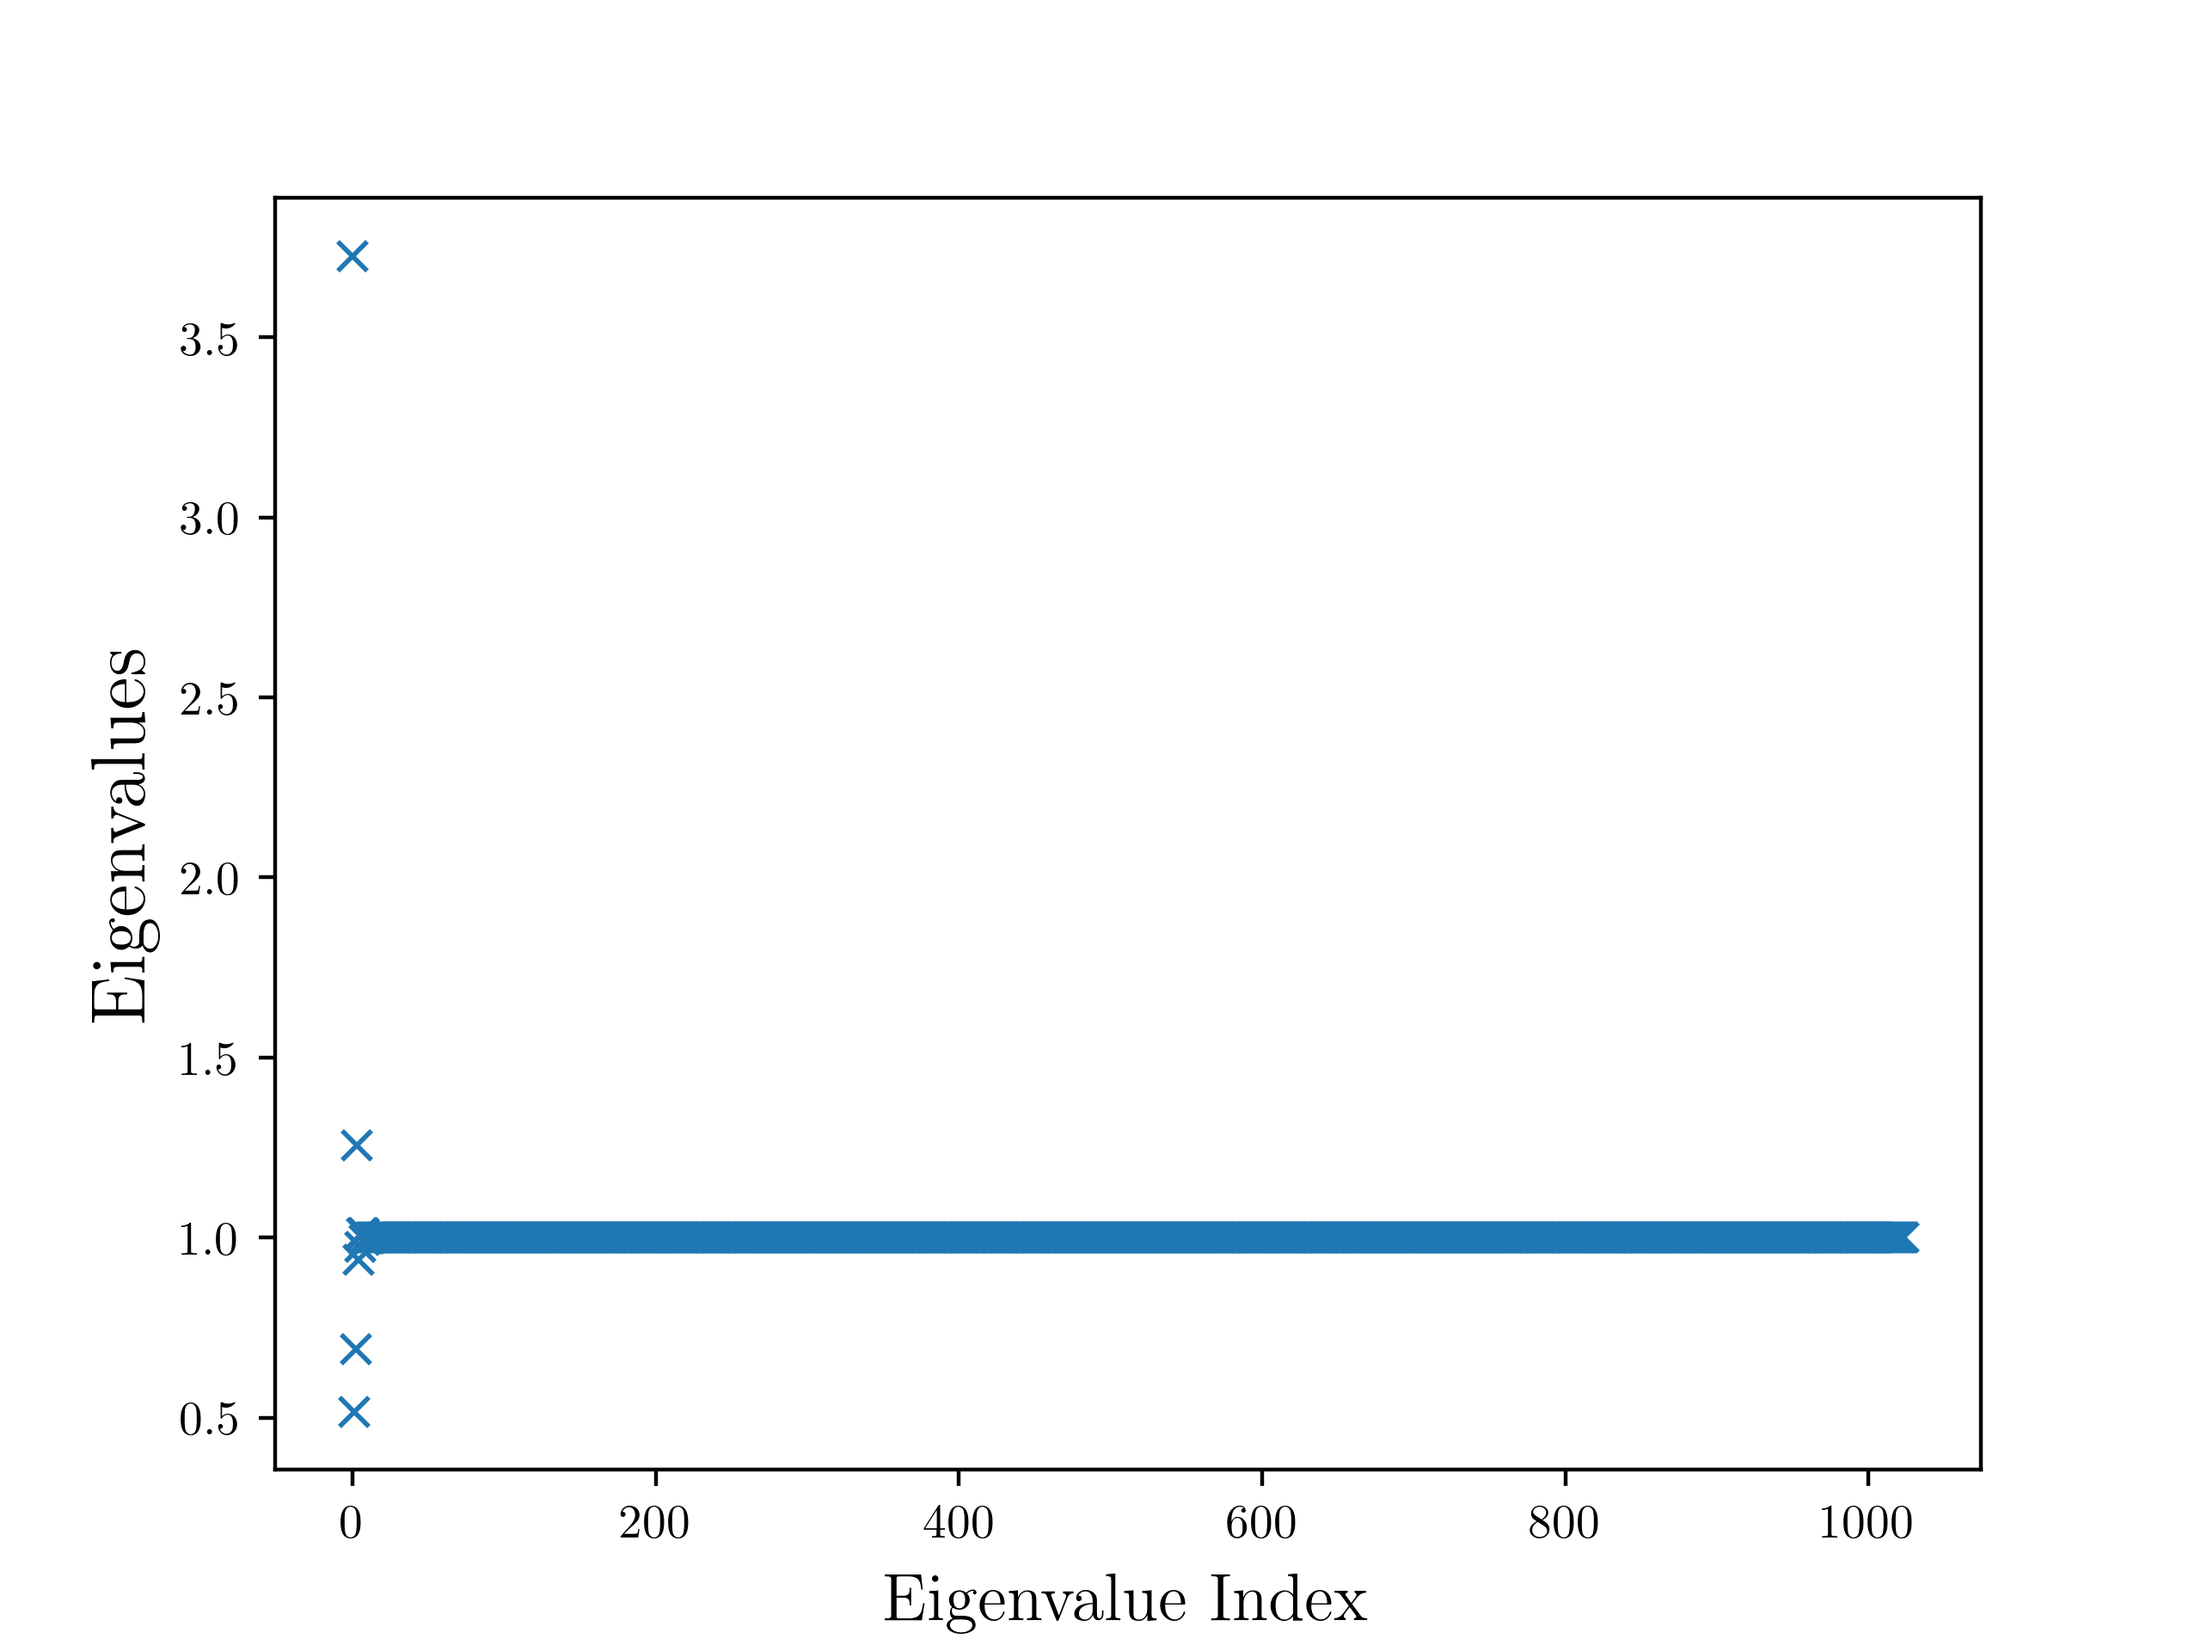
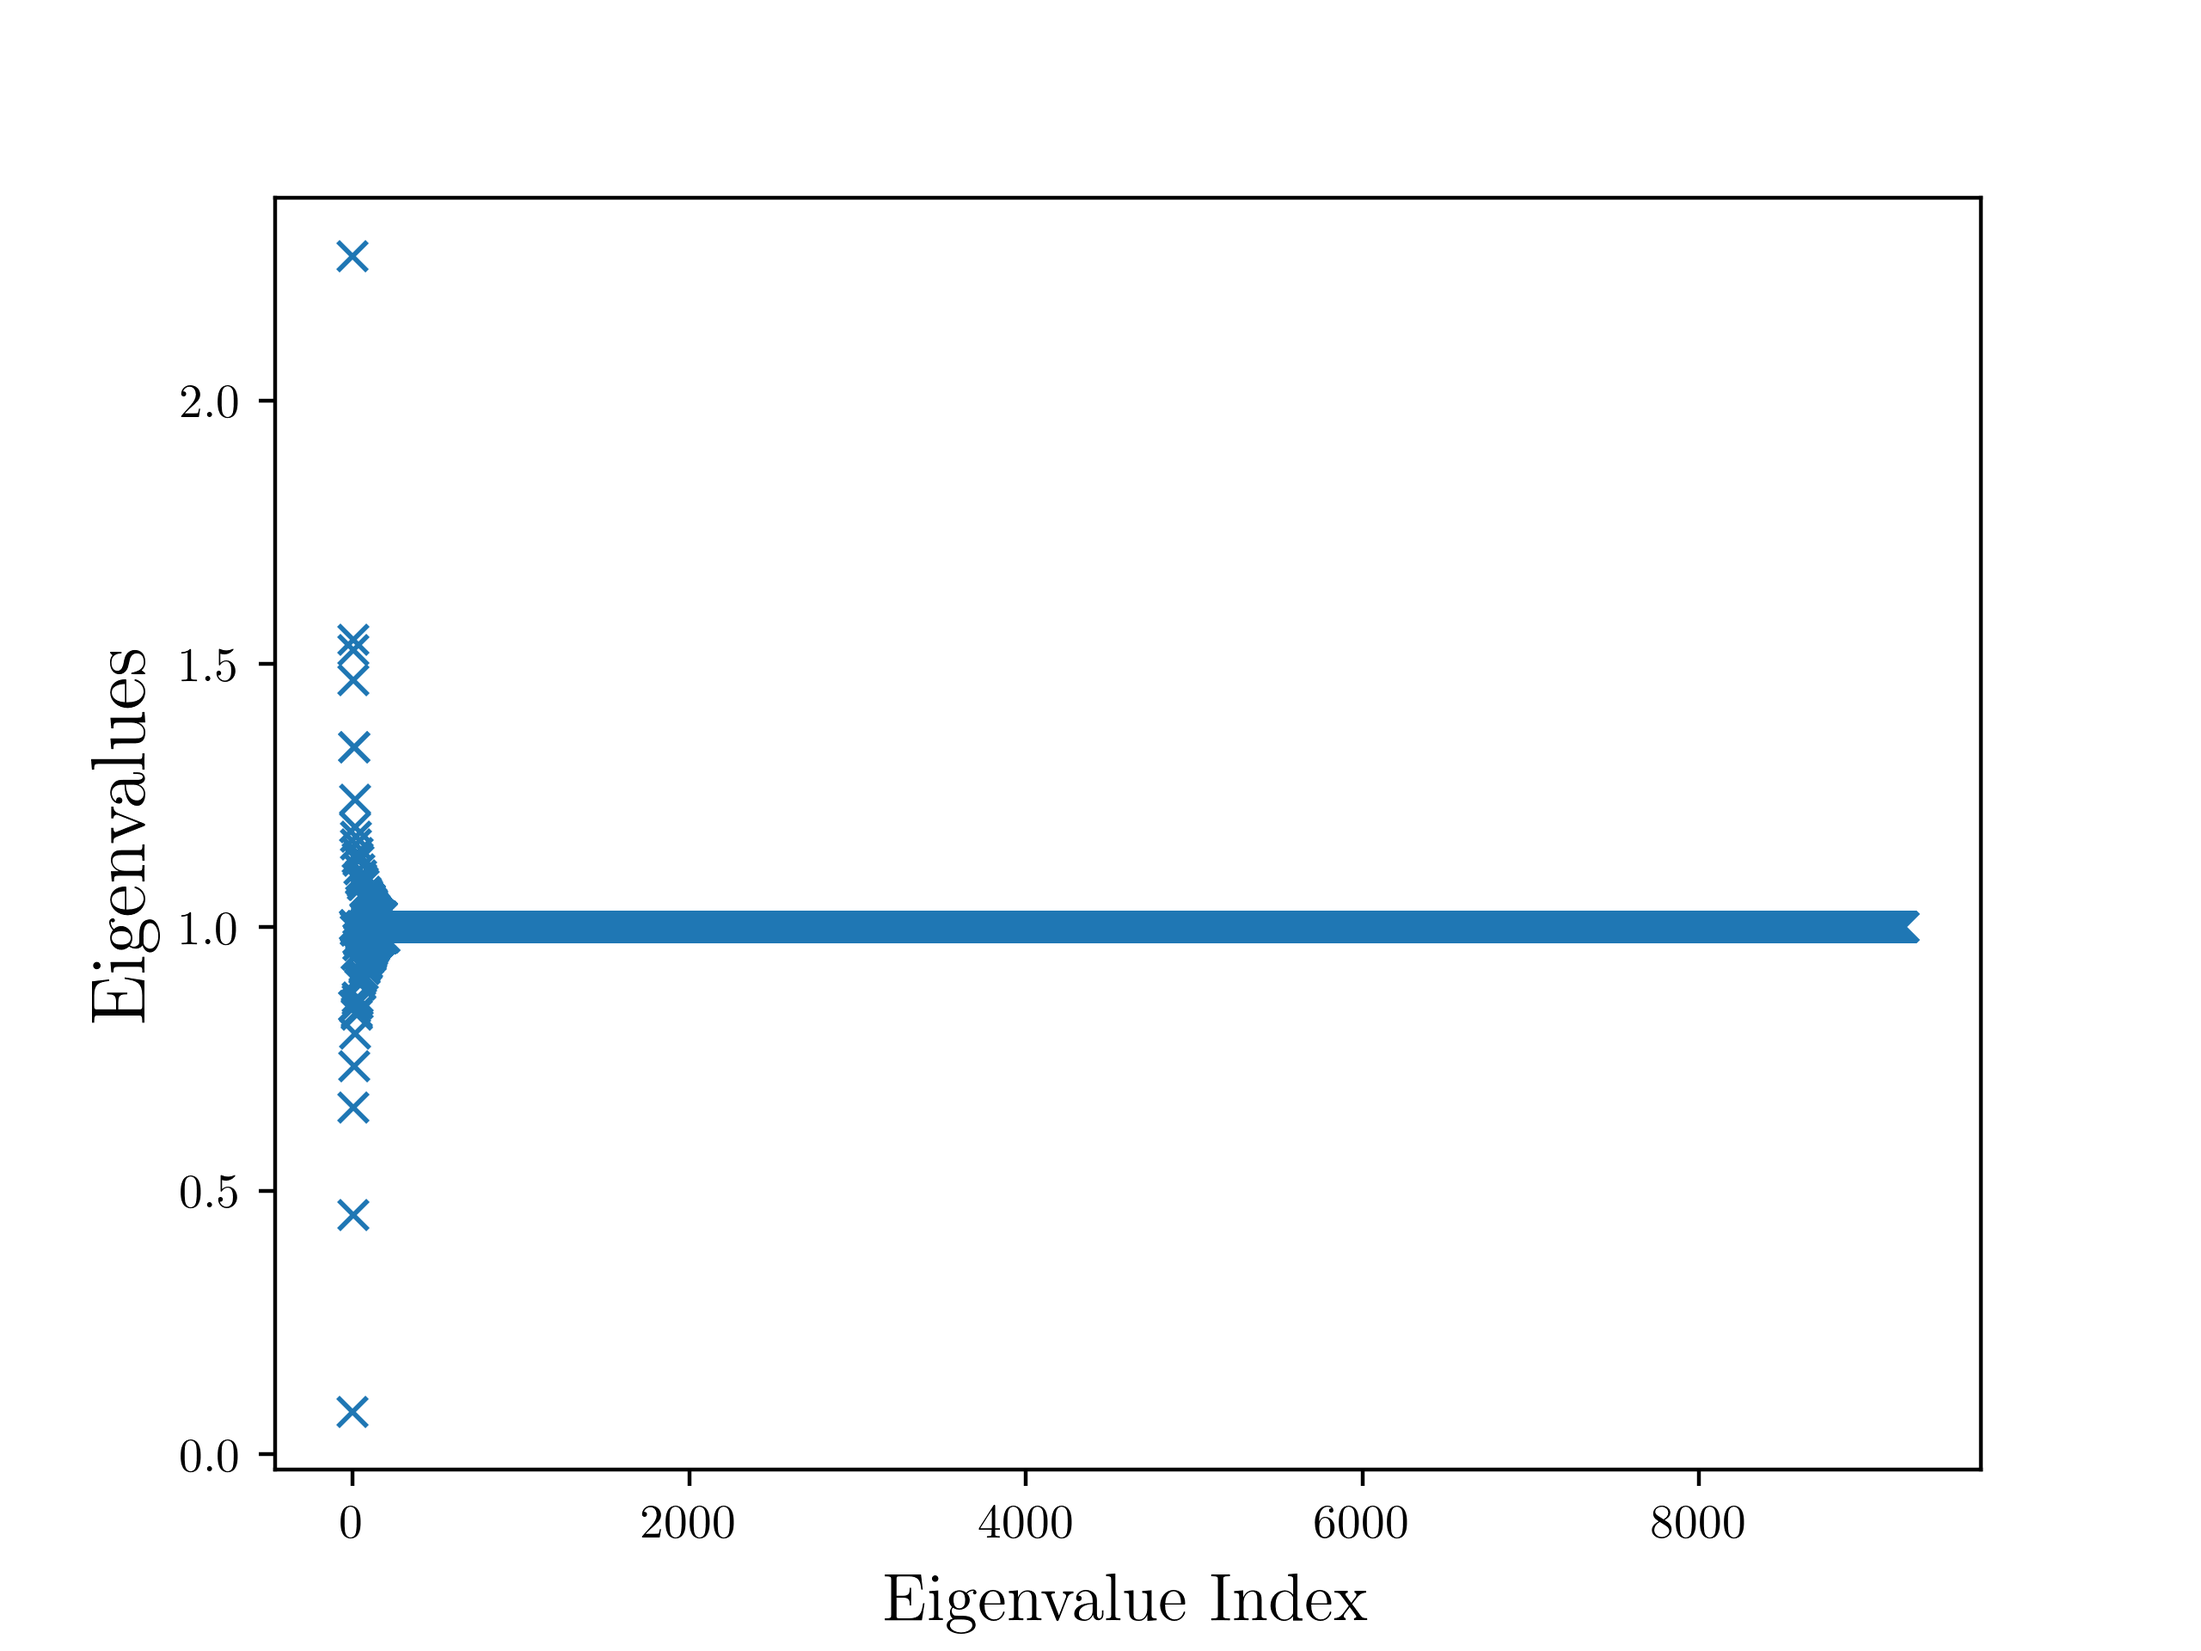
added todo

diff --git a/temporalwave.py b/temporalwave.py
@@ -1,3 +1,17 @@
+'''
+****************************
+TODO 
+****************************
+
+
+1.          MODIFY THIS CODE TO USE BD4
+2.          MODIFY THIS CODE TO RETURN THE RHS IN ADDITION TO THE MONOLITHIC MATRIX AND PRECONDITIONER
+
+
+****************************
+'''
+
+
 import meshline as ml
 import FEMhelper as fh
 import scipy.sparse.linalg as la
@@ -52,19 +66,6 @@ def monolithicAAOBD2(N,Tn):
     temp5[2*N:,:-2*N] = temp3
     A = temp5+temp4+temp1
 
-    # CONSTRUCTION OF RIGHT HAND SIDE.
-    h =h*np.ones(N-2)
-    b = np.zeros(N)
-    b[1:-1] = h
-    RHS0 = np.sin(2*np.pi*interval)
-    RHS1 = -mass2*np.sin(2*np.pi*interval)+timesteps[1]*timesteps[1]*mass2*b
-    RHSLIST = [np.zeros(N) for i in timesteps]
-    #right hand side for remaining time steps
-    for i in range(Tn):
-        RHSLIST[i] = timesteps[i]*timesteps[i]*mass2*b
-    RHSLIST[0] = RHS0
-    RHSLIST[1] = RHS1
-    B = np.concatenate(RHSLIST,axis=0)
 
     # CONSTRUCTION OF THE EXACT PRECONDITIONER
 
@@ -76,14 +77,12 @@ def monolithicAAOBD2(N,Tn):
     P = precon.todense()
     Pinv = np.linalg.inv(P);
 
-    # OBTAIN EIGENVALUES OF THE PRECONDITONED SYSTEM
-
-
     return A, Pinv
 
-# we actually need to implement the details for BD4... and central differences.
-# to get the analsis
-def monolithicAAOBD4(N,Tn):
+# this does the same as the above function but instead implements the central
+# difference formula to deal with the time derivative
+
+def monolithicAAOCD(N,Tn):
     h = 0
     #final time
     T = 1.0;
@@ -105,50 +104,30 @@ def monolithicAAOBD4(N,Tn):
     # CONSTRUCTION OF MATRIX A.
     A0list = [ssp.csr_matrix((N,N)) for i in timesteps]
     for i in range(Tn):
-            A0list[i] = mass2+timesteps[i]*timesteps[i]*stiff2
+            A0list[i] = timesteps[i]*timesteps[i]*stiff2-2*mass2
             A0list[i][0,0] =1; A0list[i][N-1,N-1] = 1
 
     A0list[0] = ssp.eye(N)
 
     A1 = ssp.csr_matrix((N,N))
     A2 = ssp.csr_matrix((N,N))
-    A1= -2*mass2
-    A2 = mass2
+    A1 = mass2
     temp1 = ssp.block_diag(A0list).tocsr()
     temp2 = ssp.block_diag([A1]*(Tn-1)).tocsr()
-    temp3 = ssp.block_diag([A2]*(Tn-2)).tocsr()
     temp4 = ssp.csr_matrix((N*Tn,N*Tn))
     temp5 = ssp.csr_matrix((N*Tn,N*Tn))
     temp4[N:,:-N] = temp2
-    temp5[2*N:,:-2*N] = temp3
+    temp5[:-N,N:] = temp2
     A = temp5+temp4+temp1
-
-    # CONSTRUCTION OF RIGHT HAND SIDE.
-    h =h*np.ones(N-2)
-    b = np.zeros(N)
-    b[1:-1] = h
-    RHS0 = np.sin(2*np.pi*interval)
-    RHS1 = -mass2*np.sin(2*np.pi*interval)+timesteps[1]*timesteps[1]*mass2*b
-    RHSLIST = [np.zeros(N) for i in timesteps]
-    #right hand side for remaining time steps
-    for i in range(Tn):
-        RHSLIST[i] = timesteps[i]*timesteps[i]*mass2*b
-    RHSLIST[0] = RHS0
-    RHSLIST[1] = RHS1
-    B = np.concatenate(RHSLIST,axis=0)
 
     # CONSTRUCTION OF THE EXACT PRECONDITIONER
 
     precon = temp5+temp4+temp1
     precon[:N,-N:] =A1
-    precon[:N,-2*N:-N] =A2
-    precon[N:2*N,-N:] =A2
+    precon[-N:,:N] =A1
     # Construct a linear operator that computes P^-1 * x.
     P = precon.todense()
     Pinv = np.linalg.inv(P);
-
-    # OBTAIN EIGENVALUES OF THE PRECONDITONED SYSTEM
-
 
     return A, Pinv
 

diff --git a/applicationWave.py b/applicationWave.py
@@ -9,7 +9,7 @@ plt.rc('font', family='serif')
 
 plt.xlabel(r'Eigenvalue Index',fontsize=14)
 plt.ylabel(r'Eigenvalues',fontsize=16)
-A,Pinv= twave.monolithicAAO(32,32)
+A,Pinv= twave.monolithicAAOCD(96,96)
 
 w,v= np.linalg.eig(Pinv*A)
 
